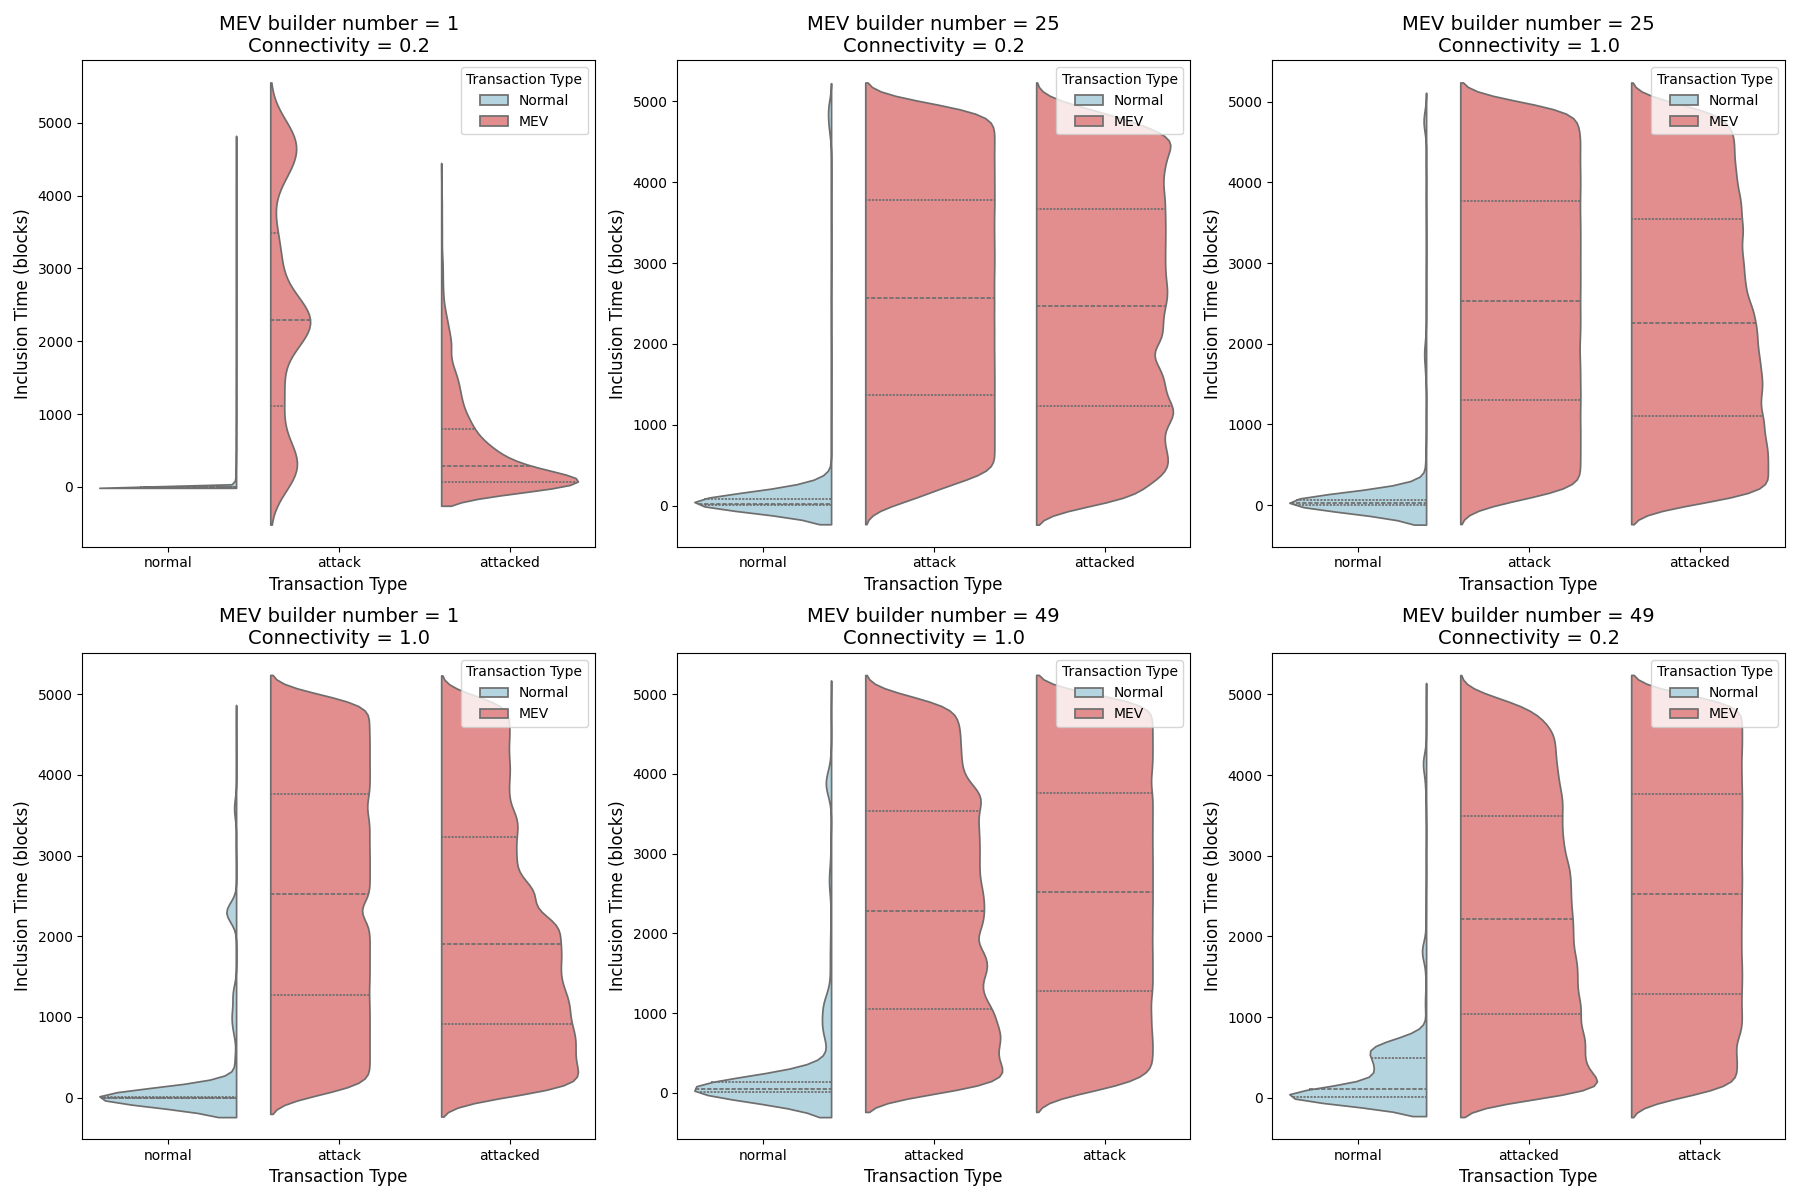
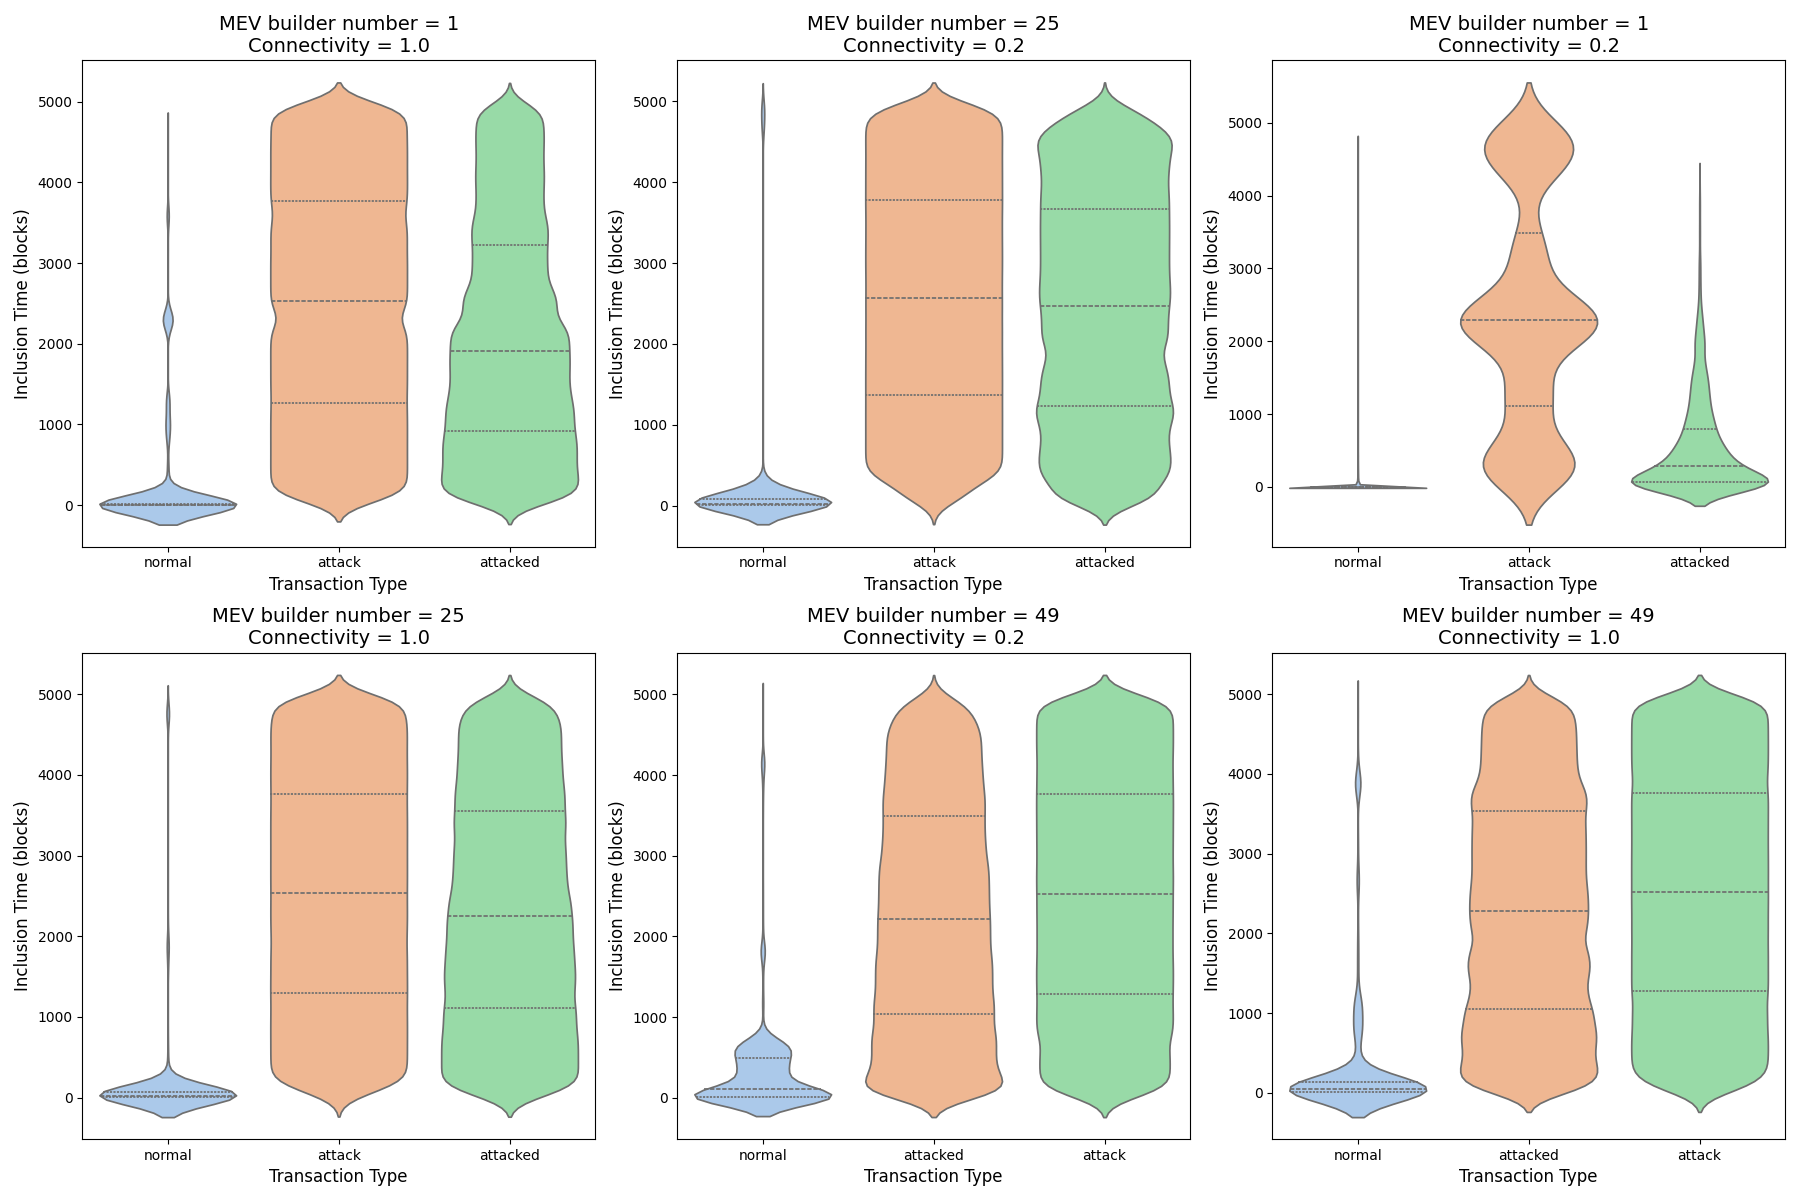
change

diff --git a/plots/tx_plot.py b/plots/tx_plot.py
@@ -75,16 +75,13 @@ def process_files_in_parallel(file_paths):
 def plot_violin(data_dict, save_dir):
     plt.figure(figsize=(18, 12))
     for idx, (file_label, data) in enumerate(data_dict.items(), 1):
-        data['mev_exploited'] = data['transaction_type'].isin(['attack', 'attacked'])
         plt.subplot(2, 3, idx)
-        sns.violinplot(data=data, x='transaction_type', y='inclusion_time', hue='mev_exploited', split=True, inner="quart", palette={False: 'lightblue', True: 'lightcoral'})
+        sns.violinplot(data=data, x='transaction_type', y='inclusion_time', inner="quart", palette='pastel')
         mev_builders = data['mev_builders'].iloc[0]
         connectivity = data['connectivity'].iloc[0]
         plt.title(f'MEV builder number = {mev_builders}\nConnectivity = {connectivity}', fontsize=14)
         plt.xlabel('Transaction Type', fontsize=12)
         plt.ylabel('Inclusion Time (blocks)', fontsize=12)
-        handles, labels = plt.gca().get_legend_handles_labels()
-        plt.legend(handles, ['Normal', 'MEV'], title='Transaction Type', loc='upper right')
     
     plt.tight_layout()
     plt.savefig(os.path.join(save_dir, 'inclusion_time_violin.png'))
@@ -93,9 +90,8 @@ def plot_violin(data_dict, save_dir):
 def plot_kde_mev(data_dict, save_dir):
     plt.figure(figsize=(18, 12))
     for idx, (file_label, data) in enumerate(data_dict.items(), 1):
-        data = data[data['transaction_type'].isin(['attack', 'attacked'])]
         plt.subplot(2, 3, idx)
-        sns.kdeplot(data=data, x='inclusion_time', y='mev', hue='transaction_type', fill=True, palette={'attack': 'lightblue', 'attacked': 'lightcoral'})
+        sns.kdeplot(data=data, x='inclusion_time', y='mev', hue='transaction_type', fill=True, palette={'normal': 'lightblue', 'attack': 'lightcoral', 'attacked': 'lightgreen'})
         mev_builders = data['mev_builders'].iloc[0]
         connectivity = data['connectivity'].iloc[0]
         plt.title(f'MEV builder number = {mev_builders}\nConnectivity = {connectivity}', fontsize=14)
@@ -109,9 +105,8 @@ def plot_kde_mev(data_dict, save_dir):
 def plot_kde_gas(data_dict, save_dir):
     plt.figure(figsize=(18, 12))
     for idx, (file_label, data) in enumerate(data_dict.items(), 1):
-        data = data[data['transaction_type'].isin(['attack', 'attacked'])]
         plt.subplot(2, 3, idx)
-        sns.kdeplot(data=data, x='inclusion_time', y='gas', hue='transaction_type', fill=True, palette={'attack': 'lightblue', 'attacked': 'lightcoral'})
+        sns.kdeplot(data=data, x='inclusion_time', y='gas', hue='transaction_type', fill=True, palette={'normal': 'lightblue', 'attack': 'lightcoral', 'attacked': 'lightgreen'})
         mev_builders = data['mev_builders'].iloc[0]
         connectivity = data['connectivity'].iloc[0]
         plt.title(f'MEV builder number = {mev_builders}\nConnectivity = {connectivity}', fontsize=14)
